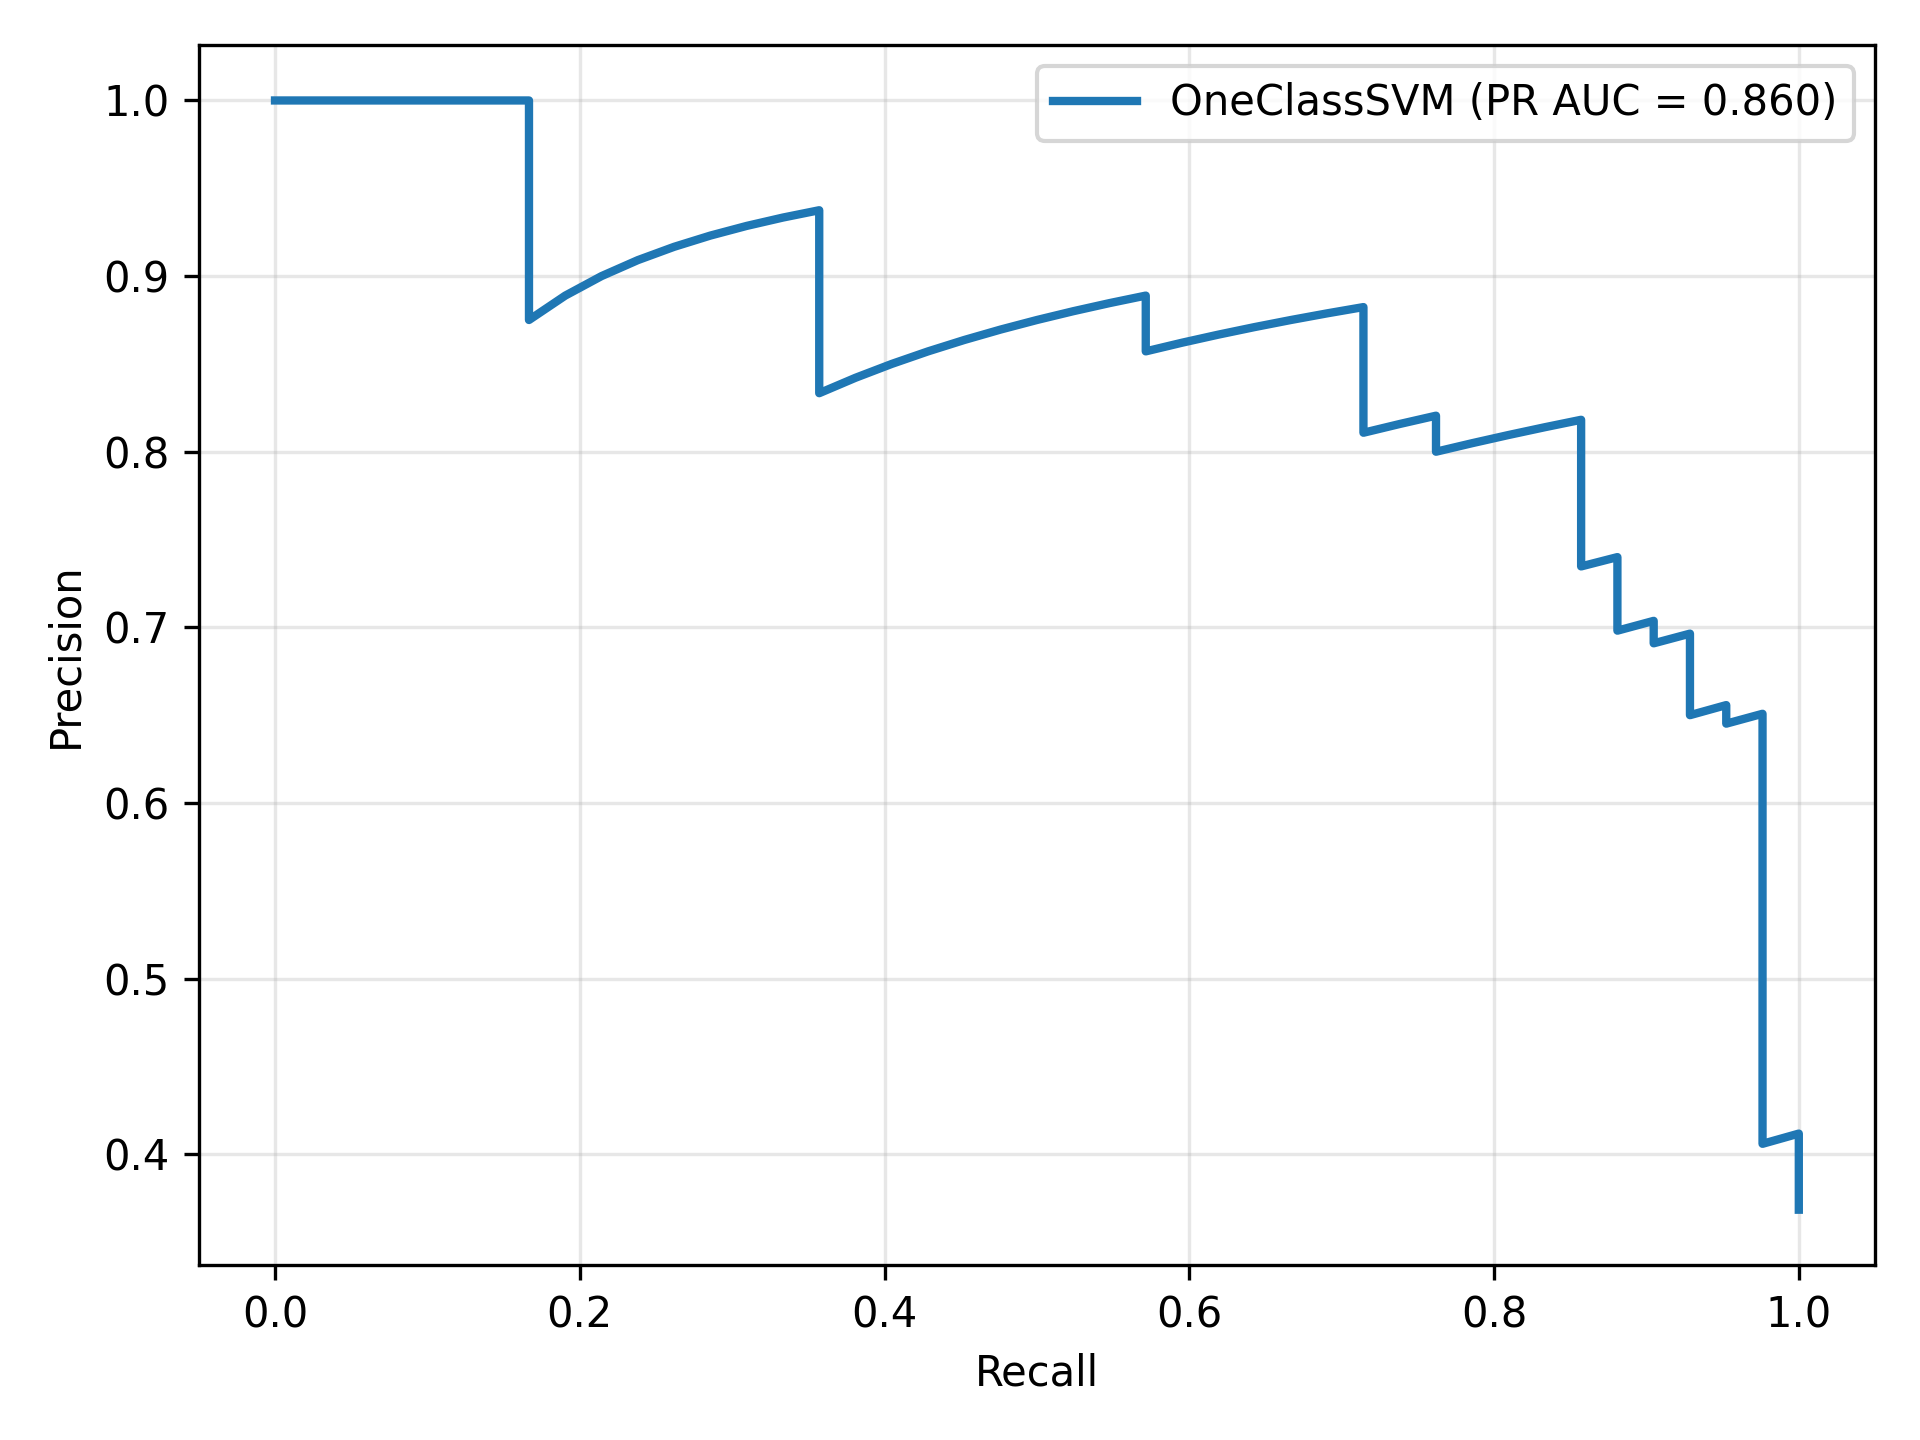
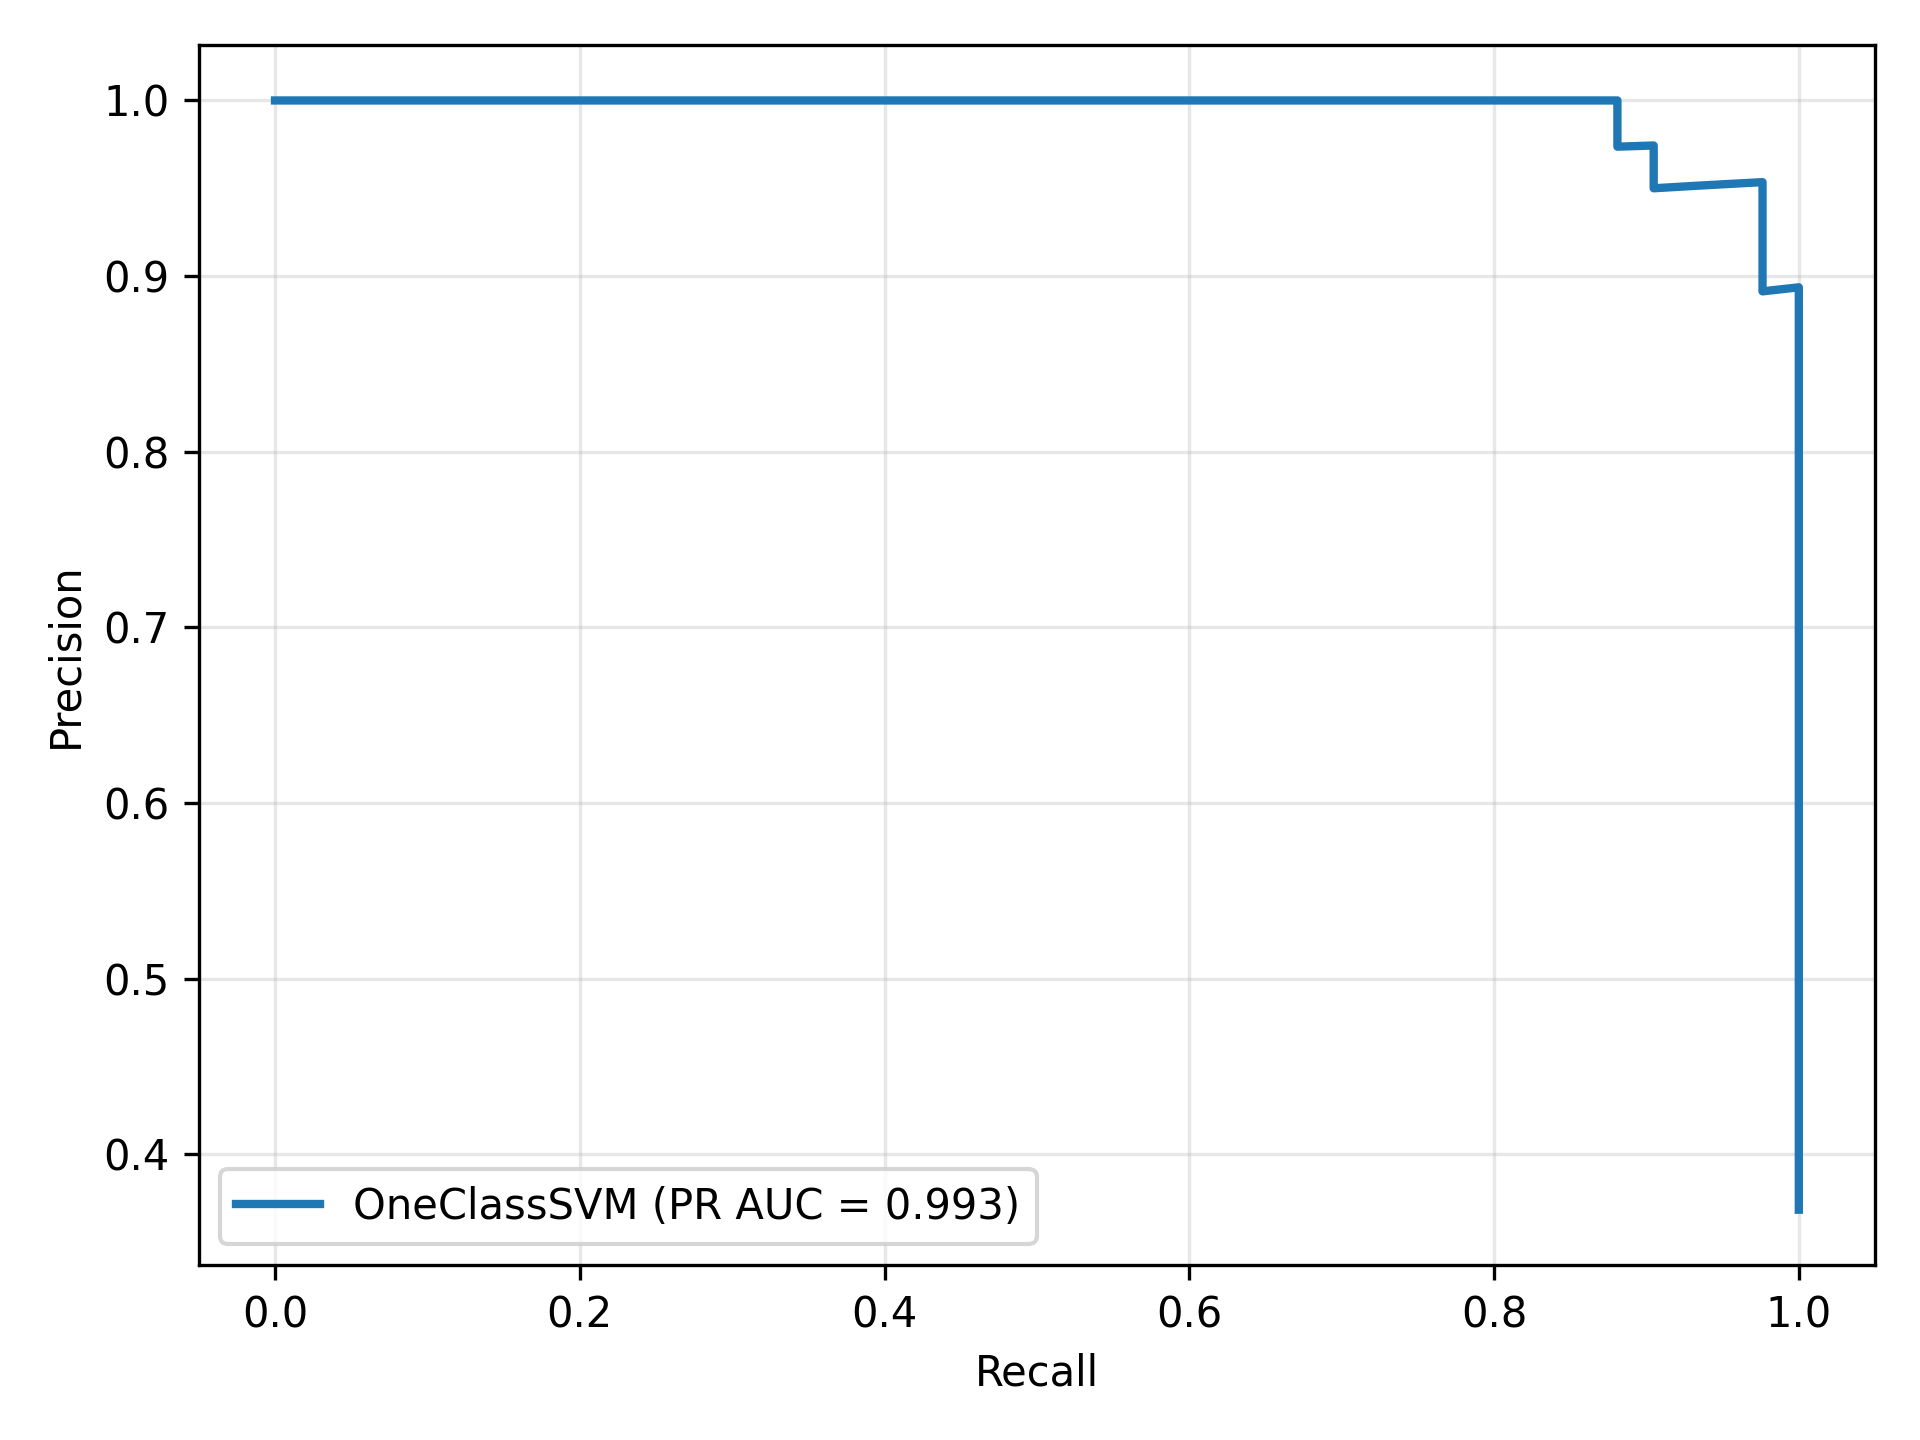
add tuning for final paper

diff --git a/main.py b/main.py
@@ -5,12 +5,29 @@ from data_loader import load_wisconsin
 from evaluate import evaluate, plot_curves, plot_metric_bars
 from models import build_models
 from preprocess import split_and_scale
+from tuning import tune_model
 
 logging.basicConfig(
     level=logging.INFO,
     format="%(asctime)s  %(levelname)s  %(message)s",
     handlers=[logging.StreamHandler()],
 )
+
+hyperparameters = {
+    "IsolationForest": {
+        "n_estimators": [50, 100, 200, 300, 500],
+        "contamination": [0.05, 0.1, 0.15, 0.2, 0.3, 0.37, 0.4],
+    },
+    "LocalOutlierFactor": {
+        "n_neighbors": [2, 5, 10, 15, 20, 25],
+        "contamination": [0.05, 0.1, 0.15, 0.2, 0.3, 0.37, 0.4],
+    },
+    "OneClassSVM": {
+        "kernel": ["rbf", "sigmoid"],
+        "gamma": ["scale", "auto", 0.001, 0.01, 0.1],
+        "nu": [0.01, 0.05, 0.1, 0.2, 0.3, 0.5],
+    },
+}
 
 
 def main():
@@ -26,12 +43,16 @@ def main():
     results = []
 
     x_train_benign = x_train[y_train == 1]
-    for name, model in models.items():
-        logging.info(f"Training ➜ {name}")
-        model.fit(x_train_benign)
+    for name, model in build_models().items():
+        logging.info(f"Tuning ➜ {name}")
+        param_grid = hyperparameters.get(name, {})
+        tuned_model, best_params = tune_model(
+            name, model, param_grid, x_train_benign, x_test, y_test, anomaly_label=0
+        )
 
+        logging.info(f"Best Params for {name}: {best_params}")
         logging.info(f"Evaluating ➜ {name}")
-        metrics = evaluate(model, x_test, y_test, anomaly_label=0)
+        metrics = evaluate(tuned_model, x_test, y_test, anomaly_label=0)
         plot_curves(name, metrics)
         metrics["model"] = name
         results.append(metrics)

diff --git a/tuning.py b/tuning.py
@@ -1,0 +1,25 @@
+from itertools import product
+from sklearn.base import clone
+from evaluate import evaluate
+
+
+def tune_model(name, base_model, param_grid, x_train, x_test, y_test, anomaly_label=0):
+    best_model = None
+    best_score = -float("inf")
+    best_params = None
+
+    keys = list(param_grid.keys())
+    for values in product(*param_grid.values()):
+        params = dict(zip(keys, values))
+        model = clone(base_model).set_params(**params)
+        model.fit(x_train)
+
+        metrics = evaluate(model, x_test, y_test, anomaly_label=anomaly_label)
+        score = metrics["pr_auc"]
+
+        if score > best_score:
+            best_score = score
+            best_model = model
+            best_params = params
+
+    return best_model, best_params
